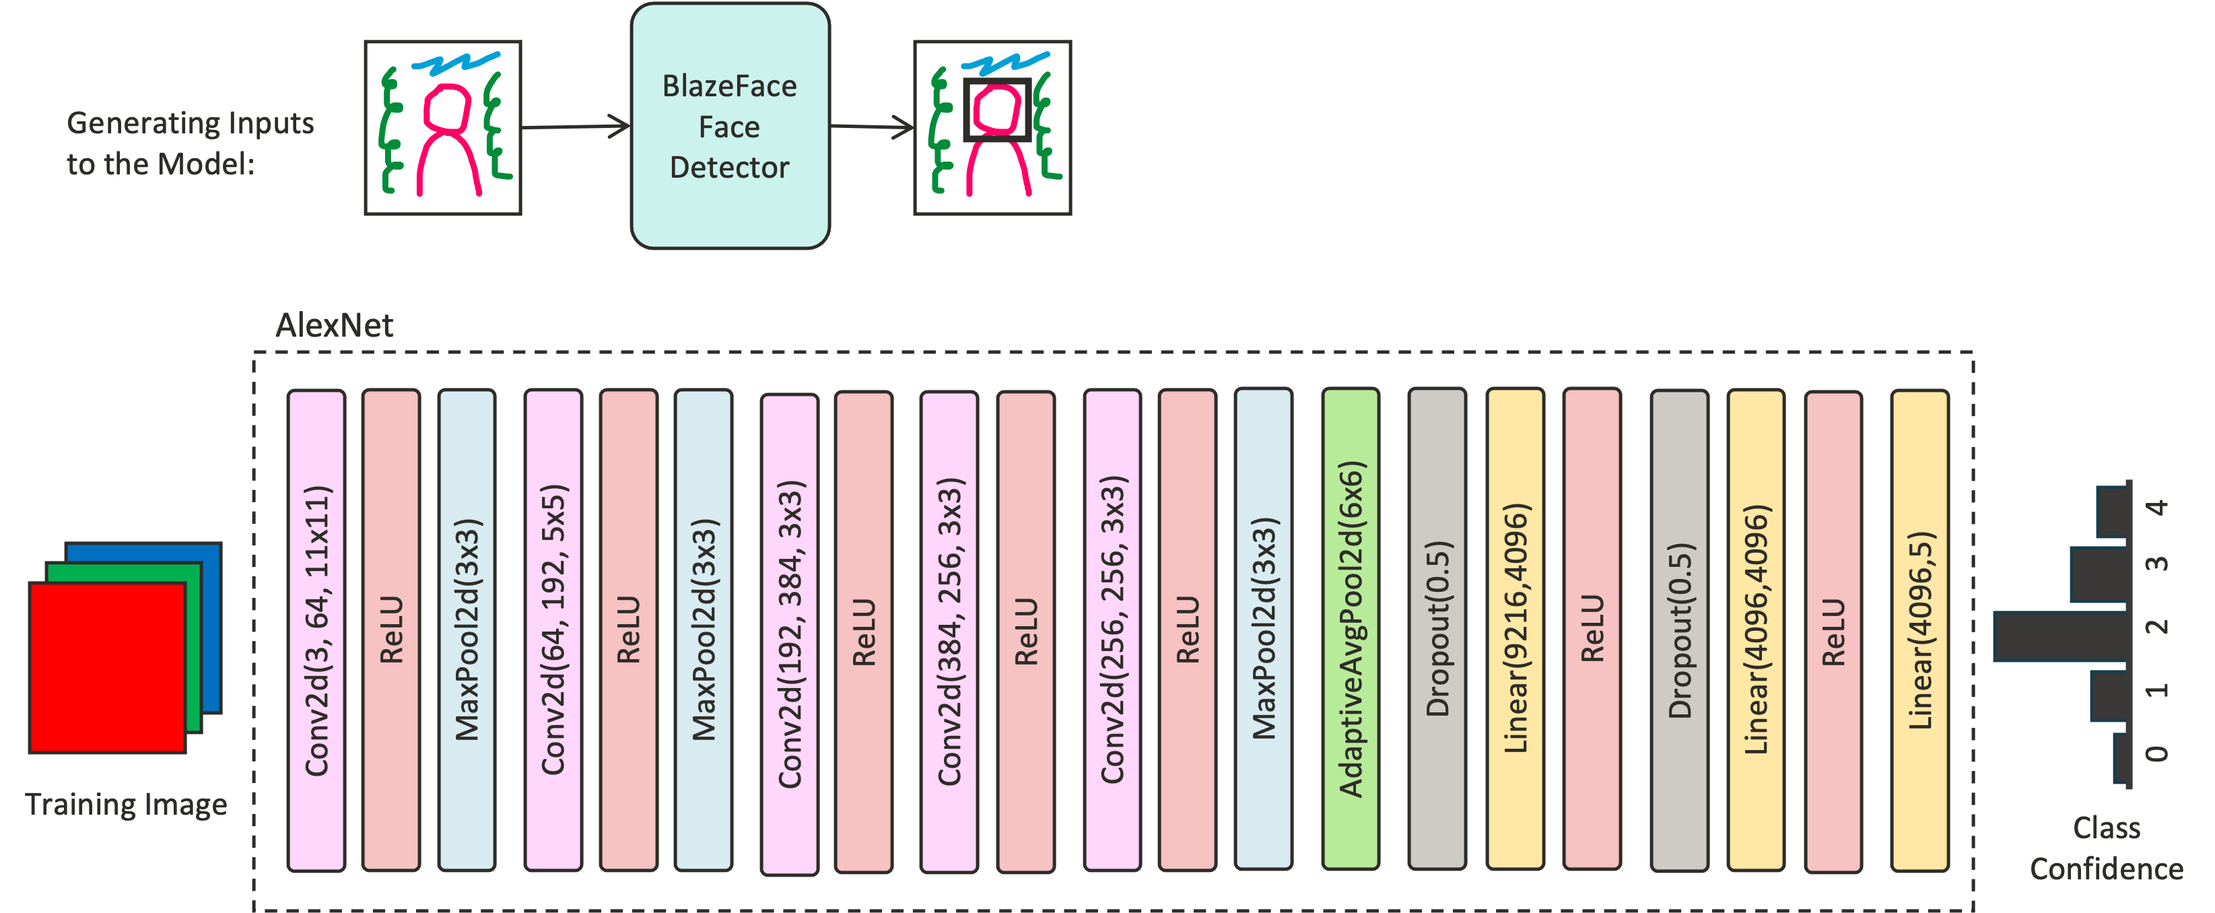
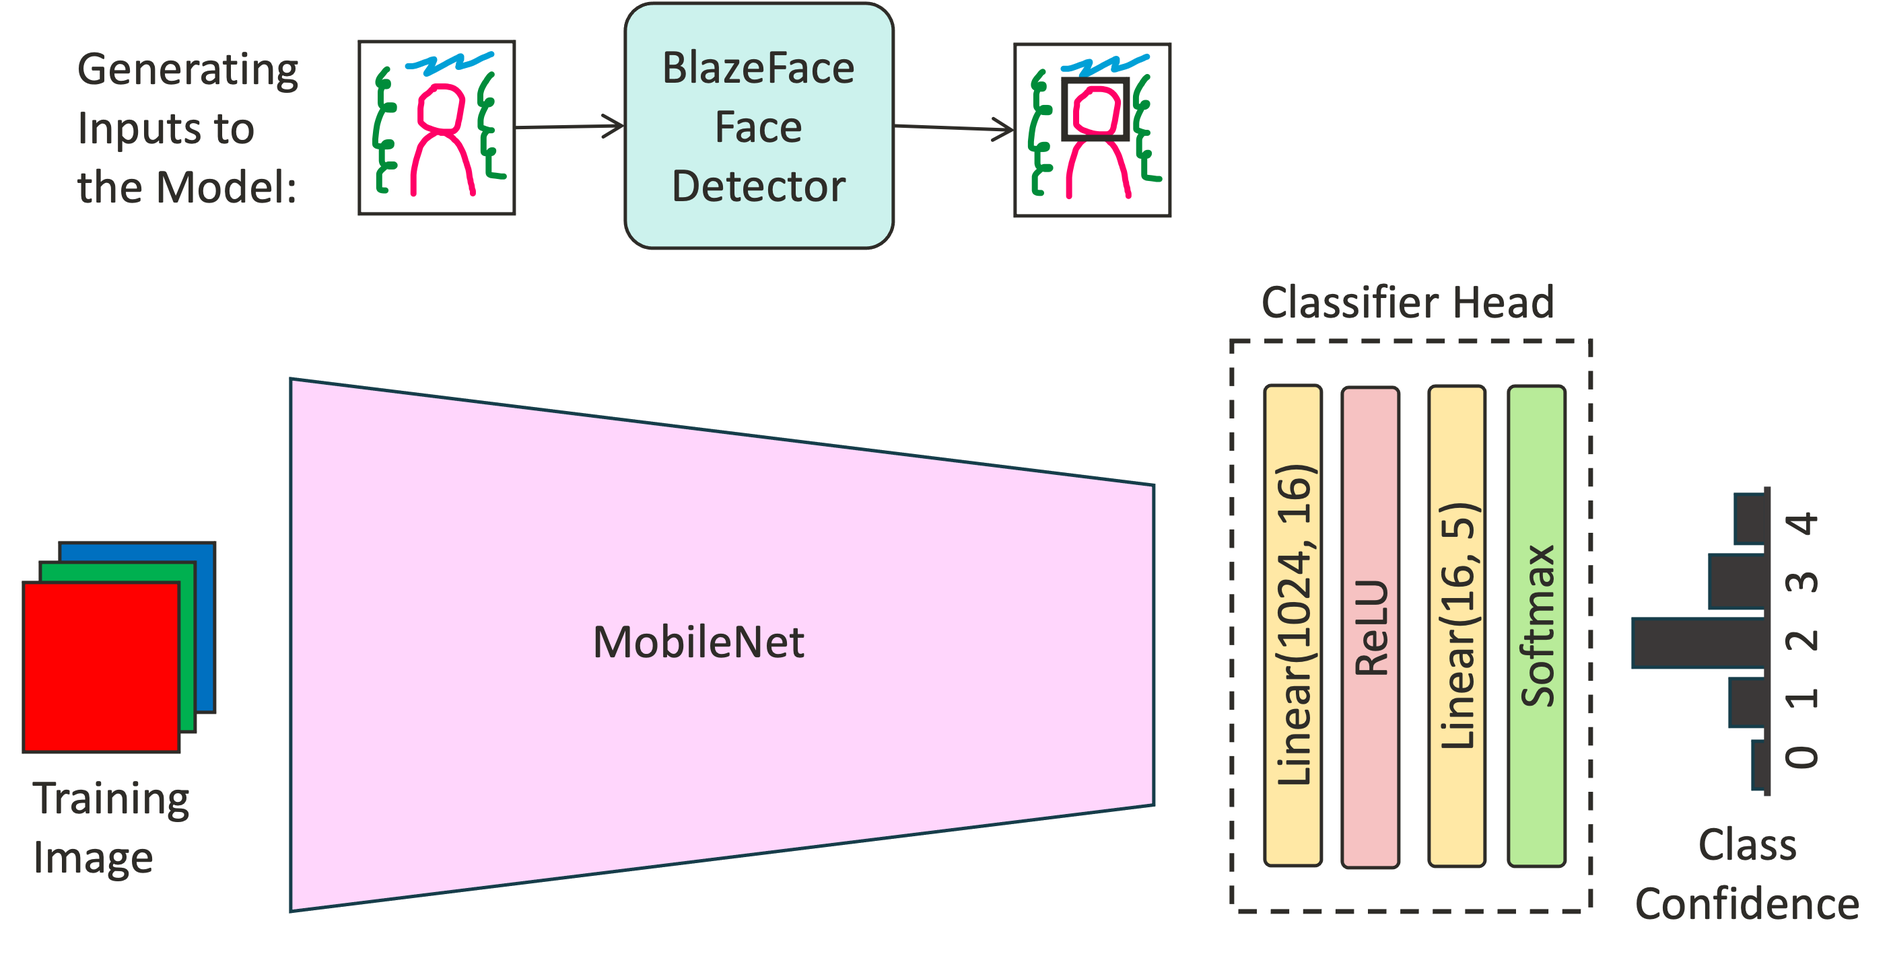
make ready for user survey

diff --git a/src/pages/cnnTrain.js b/src/pages/cnnTrain.js
@@ -1,15 +1,18 @@
 import React, { useEffect, useState } from "react";
-import { Form, Row, Col, Button } from 'react-bootstrap';
-import { train } from "../functions/trainClassifier";
+import { Form, Row, Col, Button, Spinner } from 'react-bootstrap';
+import { loadDataset, train, loadClassifier } from "../functions/trainClassifier";
 
 
-const CNNTrain = ({classifier, images, targets, setHead}) => {
-  const [batchSize, setBatchSize] = useState(32);
-  const [epochs, setEpochs] = useState(10);
+const CNNTrain = ({setClassifier, setHead}) => {
+  const [images, setImages] = useState(undefined)
+  const [targets, setTargets] = useState(undefined)
+  const [batchSize, setBatchSize] = useState(128);
+  const [epochs, setEpochs] = useState(20);
   const [lr, setLr] = useState(0.0001);
 
   useEffect(() => {
-    if (classifier && images && targets) {
+    if (images && targets) {
+      document.getElementById("loaddmspn").style.display = "none";
       document.getElementById("train").disabled = false;
       document.getElementById("select-lr").disabled = false;
       document.getElementById("select-bz").disabled = false;
@@ -20,7 +23,19 @@ const CNNTrain = ({classifier, images, targets, setHead}) => {
       document.getElementById("select-bz").disabled = true;
       document.getElementById("select-epochs").disabled = true;
     }
-  }, [classifier, images, targets])
+  }, [images, targets])
+
+  async function handleLoad() {
+    document.getElementById("loaddmspn").style.display = "inline";
+    loadClassifier().then((classifier) => {
+      setClassifier(classifier);
+      loadDataset(classifier).then((dataset) => {
+        setImages(dataset[0]);
+        setTargets(dataset[1]);
+      });
+    });
+    document.getElementById("loaddm").disabled = true;
+  }
 
   async function handleClick(e) {
     e.preventDefault();
@@ -35,19 +50,27 @@ const CNNTrain = ({classifier, images, targets, setHead}) => {
       <h2 className="display-6">Training the Model</h2>
       <div className="container-sm" style={{marginTop: 50, maxWidth: 800}}>
         <div style={{textAlign: "justify"}}>
-          Now that we have looked over the dataset and understood how different layers in the model work, let's finally train a classifier on it! We will be working with three hyperparameters, i.e., variables that we will try to find the best values for so that the classifier performs best on unseen images according to some metric: <span className="emph">learning rate</span>, <span className="emph">batch size</span>, and <span className="emph">number of epochs</span>. Since our dataset comprises of a total of 500 images, we will randomly choose 400 of them for training and the rest for validating classifier performance.
+          Now that we have looked over the dataset and understood how different layers in the model work, let's finally train a classifier on it! We will be working with three hyperparameters, i.e., variables that we will try to find the best values for so that the classifier performs best on unseen images according to some metric: <span className="emph">learning rate</span> of the optimizer, <span className="emph">batch size</span> for inputs, and <span className="emph">number of epochs</span> (complete passes over the dataset while training). Since our dataset comprises of a total of 500 images, we will randomly choose 400 of them for training and the rest for validating classifier performance (unseen during training).
           <br /><br />
-          Three metrics that we will look at are:
+          Metrics that we will look at are:
           <div>
-            [1] <span className="emph">Accuracy</span>: Fraction of validation images the classifier got correct.<br/>
-            [2] <span className="emph">Precision</span>: Out of all validation images the classifier deemed as belonging to a certain class, the fraction of images that indeed belong to that class.<br/>
-            [3] <span className="emph">Recall</span>: Out of all validation images belonging to a certain class, the fraction of images the classifier deemed as belonging to that class.<br/>
+            [1] <span className="emph">Loss</span>: Measure of the "cost" associated with trying to bring classifier predictions closer to actual image labels. Loss values should go down while training!<br/>
+            [2] <span className="emph">Accuracy</span>: Fraction of images the classifier gets correct. Accuracy should go up while training!<br/>
+            [3] <span className="emph">Confusion Matrix</span>: A square matrix that quantifies how "confused" the model gets on various classes. For example, the "face" row tells us about the number of images the model predicts as belonging to classes listed as columns when they were, in actuality, images of "faces". Think about why having large numbers along the diagonal make sense!<br/>
           </div>
           <br/>
+          When analyzing model performance, keep in mind that you should be focusing more on the validation set loss and accuracy since these inputs were unseen by the model during training, revealing if the model has generalization capabilities. The closer the validation loss and accuracy curves are to their training set counterparts, the better the model performs (it hasn't overfit or underfit)!
+          <br /><br/>
+          To open or close the visualization pane, press <tt>~</tt>.
+          <br/><br/>
         </div>
         <div>
-          <Form>
+          <Form style={{textAlign: "left"}}>
             <Row>
+              <Col xs lg="4"><Button id="loaddm" onClick={handleLoad}>Load Dataset and MobileNet</Button></Col>
+              <Col xs lg="2" style={{justifyContent: "left"}}><Spinner id="loaddmspn" style={{display: "none"}} /></Col>
+            </Row>
+            <Row style={{marginTop: 15}}>
               <Col xs lg="2">
                 <Form.Group controlId="select-lr">
                   <Form.Label>Learning Rate</Form.Label>
@@ -82,8 +105,8 @@ const CNNTrain = ({classifier, images, targets, setHead}) => {
                   </Form.Select>
                 </Form.Group>
               </Col>
-              <Col xs lg="2">
-                <Button id="train" onClick={handleClick}>Train!</Button>
+              <Col xs lg="3" style={{alignItems: "flex-end"}}>
+                <Button id="train" onClick={handleClick}>Train Classifier Head!</Button>
               </Col>
             </Row>
           </Form>

diff --git a/src/pages/cnnTest.js b/src/pages/cnnTest.js
@@ -1,14 +1,30 @@
-import React, { useEffect } from "react";
-import { Spinner } from 'react-bootstrap';
+import React, { useEffect, useState } from "react";
+import { Spinner, Button, Row, Col } from 'react-bootstrap';
 import { detectFaces } from "../functions/detectFaces";
 import { classifyImage } from "../functions/classifyImage";
+import { loadDetector } from "../functions/detectFaces";
 
 
-const CNNTest = ({classifier, detector, head}) => {
+const CNNTest = ({classifier, head}) => {
+  const [detector, setDetector] = useState(undefined);
+
   useEffect(() => {
-    document.getElementById("random").disabled = true;
-    document.getElementById("user").disabled = true;
-  }, [])
+    if (detector) {
+      document.getElementById("random").disabled = false;
+      document.getElementById("user").disabled = false;
+    } else {
+      document.getElementById("random").disabled = true;
+      document.getElementById("user").disabled = true;
+    }
+  }, [detector])
+
+  useEffect(() => {
+    if (classifier && head) {
+      document.getElementById("loadfd").disabled = false;
+    } else {
+      document.getElementById("loadfd").disabled = true;
+    }
+  }, [classifier, head])
 
   function common(src) {
     document.getElementById("output-spn").style.display = "none";
@@ -30,14 +46,22 @@ const CNNTest = ({classifier, detector, head}) => {
     setTimeout(() => detectAndClassify(), 1000)
   }
 
+  async function handleLoad() {
+    document.getElementById("loadfdspn").style.display = "block";
+    document.getElementById("loadfd").disabled = true;
+    loadDetector().then((detector) => {
+      setDetector(detector);
+      document.getElementById("loadfdspn").style.display = "none";
+    });
+  }
+
   async function detectAndClassify() {
     let img = document.getElementById('source-img').getContext('2d').getImageData(0, 0, 224, 224);
     await detectFaces(detector, img);
-    await classifyImage(classifier, img);
+    await classifyImage(classifier, head, img);
   }
 
-  function handleClick(e) {
-    console.log('clicked')
+  async function handleClick(e) {
     e.preventDefault();
     common('random/' + Math.floor(Math.random() * 10).toString() + '.jpeg');
   }
@@ -54,13 +78,19 @@ const CNNTest = ({classifier, detector, head}) => {
           Now that we've learned how the model works "under-the-hood" and what dataset it was trained on, let's see how it performs on unseen samples. Over-reliance on model predictions can do more harm than good, especially because these models are not always right! Sometimes, models can be extremely wrong with very high confidence. AI systems should keep humans in the loop, since humans are ultimately responsible and accountable for the tasks [5].
           <br /><br />
           How does the model do on an unseen image? The pipeline that we will be following is:<br />
-          <div style={{color: "#7b34ec"}}>
+          <div className="emph">
             [1] Get an input image<br/>
             [2] Detect faces in the image<br/>
             [3] Pass image through the model to get predictions!</div>
           <br/>
         </div>
         <div>
+          <div style={{marginBottom: 15, textAlign: "left"}}>
+            <Row>
+              <Col xs lg="3"><Button id="loadfd" onClick={handleLoad}>Load Face Detector</Button></Col>
+              <Col xs lg="2" style={{justifyContent: "left"}}><Spinner id="loadfdspn" style={{display: "none"}} /></Col>
+            </Row>
+          </div>
           <button id="random" className="random-img-gen" onClick={handleClick}>Use Random Image</button>
           <span style={{margin: "0 20px"}}>OR</span>
           <input id="user" type="file" accept="image/*" onChange={handleChange} style={{marginBottom: 20, justifyContent: "center", cursor: "pointer"}} /><br/>
@@ -69,7 +99,7 @@ const CNNTest = ({classifier, detector, head}) => {
         </div>
         <div>
           <Spinner id="output-spn" style={{display: "none", marginTop: 10}} />
-          <div id="has-faces" style={{display: "none", color: "red", marginTop: 20, textAlign: "left"}}>BlazeFace has detected presence of faces in the provided image. As detailed above, always keep in mind concerns around privacy and data protection!</div>
+          <div id="has-faces" style={{display: "none", color: "red", marginTop: 20, textAlign: "left"}}>BlazeFace has detected presence of faces (sometimes even dog faces &#128542;) in the provided image. As detailed above, always keep in mind concerns around privacy and data protection!</div>
           <div id="pred" style={{display: "none", marginTop: 20}}>
             <span style={{textDecoration: "underline"}}>Prediction</span><br />
             Church: <span id="church"></span><br />
@@ -78,6 +108,7 @@ const CNNTest = ({classifier, detector, head}) => {
             Fish: <span id="fish"></span><br />
             Parachute: <span id="parachute"></span>
           </div>
+          <div id="ps" style={{textAlign: "justify", marginTop: 20, display: "none"}}>Two of the many reasons why a model might incorrectly classify a test image, given that it performs decently well on the training and validation sets, are: (1) the image is out-of-distribution (image styles not present in the dataset; for example, a face at a different angle, a different dog breed, etc.), or (2) the image is out-of-domain (images from classes the model might not have seen during training). Always have humans in the loop!</div>
         </div>
       </div>
     </div>

diff --git a/src/pages/CNN.js b/src/pages/CNN.js
@@ -4,34 +4,15 @@ import CNNDataset from "./cnnDataset";
 import CNNModel from "./cnnModel";
 import CNNTrain from "./cnnTrain";
 import CNNTest from "./cnnTest";
-import { loadClassifier, loadDataset } from "../functions/trainClassifier";
-import { loadDetector } from "../functions/detectFaces";
 
 
 const CNN = () => {
   const [show, setShow] = useState(false);
-  const [images, setImages] = useState([]);
-  const [targets, setTargets] = useState([]);
-  const [detector, setDetector] = useState(undefined);
   const [classifier, setClassifier] = useState(undefined);
   const [head, setHead] = useState(undefined);
 
   useEffect(() => {
     window.scrollTo(0, 0);
-  }, [])
-
-  useEffect(() => {
-    loadClassifier().then((classifier) => {
-      setClassifier(classifier);
-      loadDataset(classifier).then((dataset) => {
-        setImages(dataset[0]);
-        setTargets(dataset[1]);
-      });
-    });
-
-    loadDetector().then((detector) => {
-      setDetector(detector);
-    });
   }, [])
 
   function openSurvey() { setShow(true); }
@@ -57,9 +38,9 @@ const CNN = () => {
         <hr style={{margin: "30px 20px"}} />
         <CNNModel />
         <hr style={{margin: "30px 20px"}} />
-        <CNNTrain classifier={classifier} images={images} targets={targets} setHead={setHead} />
+        <CNNTrain setClassifier={setClassifier} setHead={setHead} />
         <hr style={{margin: "30px 20px"}} />
-        <CNNTest classifier={classifier} detector={detector} head={head} />
+        <CNNTest classifier={classifier} head={head} />
         <hr style={{margin: "30px 20px"}} />
         <div className="container-sm" style={{maxWidth: 750, textAlign: "justify"}}>
           Thanks for completing this module! Please fill out this exit ticket and feedback survey to self-assess learning outcomes and help improve this module!<br/><br />
@@ -82,6 +63,7 @@ const CNN = () => {
           [8] Tero Karras, Samuli Laine, and Timo Aila. "A style-based generator architecture for generative adversarial networks." <em>Proceedings of the IEEE/CVF conference on computer vision and pattern recognition</em>. 2019.<br />
           [9] Valentin Bazarevsky, Yury Kartynnik, Andrey Vakunov, Karthik Raveendran, and Matthias Grundmann. "Blazeface: Sub-millisecond neural face detection on mobile gpus." arXiv preprint arXiv:1907.05047 (2019).<br/>
           [10] Xavier Glorot, Antonie Bordes, and Yoshua Bengio. Deep Sparse Rectifier Neural Networks. <i>Proceedings of the Fourteenth International Conference on Artificial Intelligence and Statistics</i>, in <i>Proceedings of Machine Learning Research</i> 15:315-323 (2011). <a href="https://proceedings.mlr.press/v15/glorot11a.html">https://proceedings.mlr.press/v15/glorot11a.html</a>.<br/>
+          [11] Andrew Howard, Mark Sandler, Grace Chu, Liang-Chieh Chen, Bo Chen, Mingxing Tan, Weijun Wang et al. "Searching for mobilenetv3." In Proceedings of the IEEE/CVF international conference on computer vision, pp. 1314-1324. 2019.
         </div>
       </div>
       <hr style={{margin: 0}} className="border border-2 "/>

diff --git a/src/pages/cnnModel.js b/src/pages/cnnModel.js
@@ -11,12 +11,12 @@ const CNNModel = () => {
       <h2 className="display-6">Inside the Model!</h2>
       <div className="container-sm" style={{marginTop: 50, maxWidth: 800}}>
         <div style={{textAlign: "justify"}}>
-          AI Literacy necessitates understanding of how models work "under-the-hood" so we can critically examine and address areas of issues and needs for improvement, and question the model's interaction with people, society, and the environment.
+          AI Literacy necessitates understanding of how models work "under-the-hood" so we can critically examine and address areas of issues and needs for improvement, and question the model's interaction with people, society, and the environment. The pipeline for image classification used in this module is:
           <br /><br />
           <img src="arch.png" alt="model architecture" className="img-fluid" width="100%" />
           <br /><br />
-          Here, BlazeFace is a lightweight, sub-millisecond face detector designed specifically for mobile inference [9].<br/><br/>
-          Go through the following tabs to learn about convolutions, non-linearities, and pooling:<br/>
+          Here, BlazeFace is a lightweight, sub-millisecond face detector designed specifically for mobile inference [9]. We will be using a pre-trained MobileNet V3 backbone [11] and train a Classifier Head for image classification.<br/><br/>
+          Go through the following tabs to learn about convolutions, non-linearities, and pooling that are used by these models:<br/>
         </div>
         <Tabs
           defaultActiveKey="convolution"
@@ -30,7 +30,7 @@ const CNNModel = () => {
           <Tab eventKey="relu" title="ReLU" key={"tab-1"}>
             <CNNModelRelu />
           </Tab>
-          <Tab eventKey="maxpool" title="Max Pooling" key={"tab-2"}>
+          <Tab eventKey="maxpool" title="Pooling" key={"tab-2"}>
             <CNNModelPooling />
           </Tab>
         </Tabs>

diff --git a/src/pages/cnnPooling.js b/src/pages/cnnPooling.js
@@ -19,7 +19,7 @@ const CNNModelPooling = () => {
     <div>
       <div style={{textAlign: "justify", marginBottom: 20}}>
         Pooling is a way in which information from an input is gradually aggregated so that convolutional layers downstream can learn a more global representation. It is equivalent to spatially downsampling the input, and can be thought of as allowing the model to learn low-level features such as edges in the earlier layers, and more high-level features like eyes, faces, hands, etc. in the later layers [1].<br /><br />
-        Max pooling, Min Pooling, and Average Pooling compute the <tt>maximum</tt>, <tt>minimum</tt>, and <tt>average</tt> over some pre-defined window as a way of aggregation. See how these work below! (Windows are <tt>2 x 2</tt> in size). The image below is checkered; it has an alternating black (0) and white (255) pixel pattern. Why do the following results make sense? Hint: Think about what value you get after applying each of the below pooling operations to the window [[255, 0], [0, 255]].
+        Max pooling, Min Pooling, and Average Pooling compute the <tt>maximum</tt>, <tt>minimum</tt>, and <tt>average</tt> over some pre-defined window as a way of aggregation. See how these work below! (Windows are <tt>2 x 2</tt> in size). The image below is checkered; it has an alternating black (0) and white (255) pixel pattern. Why do the following results make sense? Hint: Think about what value you get after applying each of the below pooling operations to the <tt>2 x 2</tt> square window [[255, 0], [0, 255]].
       </div>
       <ButtonGroup>
         <Button variant="secondary" onClick={() => handleClick("max")}>Max Pooling</Button>

diff --git a/src/functions/classifyImage.js b/src/functions/classifyImage.js
@@ -1,4 +1,28 @@
-export async function classifyImage(img) {
+import * as tf from '@tensorflow/tfjs';
+
+
+export async function classifyImage(classifier, head, img) {
+  const classes = ["church", "face", "fish", "dog", "parachute"];
+
+  for (let i = 0; i < 5; i++) {
+    document.getElementById(classes[i]).classList.remove("emph");
+  }
+  const imgFeatures = tf.tidy(function() {
+    const imgTensor = tf.browser.fromPixels(img).toFloat().div(255.0);
+    return classifier.predict(imgTensor.expandDims()).squeeze();
+  });
+
+  const prediction = head.predict(imgFeatures.expandDims()).squeeze();
+  const predictionArray = prediction.arraySync();
+  const highestIndex = prediction.argMax().arraySync();
+
+  for (let i = 0; i < 5; i++) {
+    document.getElementById(classes[i]).innerHTML = predictionArray[i].toFixed(3);
+  }
+  
+  document.getElementById(classes[highestIndex]).classList.add("emph");
+
   document.getElementById("output-spn").style.display = "none";
   document.getElementById("pred").style.display = "block";
+  document.getElementById("ps").style.display = "block";
 }

diff --git a/src/pages/cnnModelConvolution.js b/src/pages/cnnModelConvolution.js
@@ -89,7 +89,7 @@ const CNNModelConvolution = () => {
         <canvas id="outconv" height={200} width={200} style={{display: "none", margin: "0 20px 30px 20px"}} />
         <Spinner id="spnconv" style={{display: "none"}} />
         <div style={{textAlign: "justify", marginBottom: 20}}>
-          Now here's a challenge... the first filter above represents a <em>vertical</em> edge detector (which can be verified from the vertical lines extracted from the image). Try to design a horizontal edge detector and check if the convolved image (shown above) match your expectations!
+          Now here's a challenge... the first filter above represents a <em>vertical</em> edge detector (which can be verified from the vertical lines extracted from the image). Try to design a horizontal edge detector and check if the convolved image (shown above) matches your expectations!
         </div>
         <Form>
           <Row>

diff --git a/src/functions/trainClassifier.js b/src/functions/trainClassifier.js
@@ -38,8 +38,6 @@ export async function loadClassifier() {
     mobilenet.predict(tf.zeros([1, 224, 224, 3]));
   });
 
-  console.log(mobilenet.getLayers())
-
   return mobilenet;
 }
 
@@ -50,7 +48,7 @@ export async function train(images, targets, batchSize=32, epochs=15, learningRa
   logDiv.style.display = "block";
 
   let head = tf.sequential();
-  head.add(tf.layers.dense({inputShape: [1024], units: 32, activation: 'relu'}));
+  head.add(tf.layers.dense({inputShape: [1024], units: 16, activation: 'relu'}));
   head.add(tf.layers.dense({units: 5, activation: 'softmax'}));
 
   head.compile({
@@ -103,9 +101,6 @@ export async function train(images, targets, batchSize=32, epochs=15, learningRa
   inputsAsTensor.dispose();
   
   // await head.save('localstorage://model_head')
-  
-  document.getElementById("random").disabled = false;
-  document.getElementById("user").disabled = false;
 
   return head;
 }

diff --git a/src/functions/filterBank.js b/src/functions/filterBank.js
@@ -28,9 +28,9 @@ LineFilter.weightArray[2] = [0, 1, 2];
 
 
 export var DiagonalFilter = new Kernel(3, 3);
-DiagonalFilter.weightArray[0] = [8, 0, -4];
-DiagonalFilter.weightArray[1] = [0, 8, 0];
-DiagonalFilter.weightArray[2] = [-4, 0, 8];
+DiagonalFilter.weightArray[0] = [8, -4, -4];
+DiagonalFilter.weightArray[1] = [-4, 8, -4];
+DiagonalFilter.weightArray[2] = [-4, -4, 8];
 
 
 export var CircularFilter = new Kernel(3, 3);
